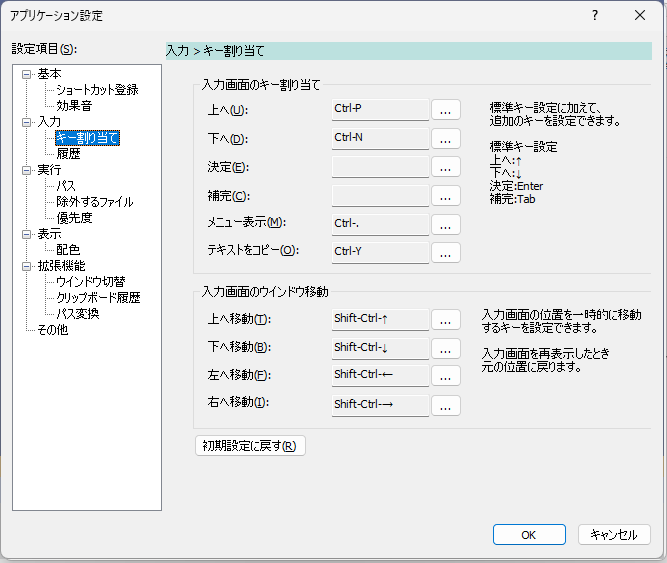
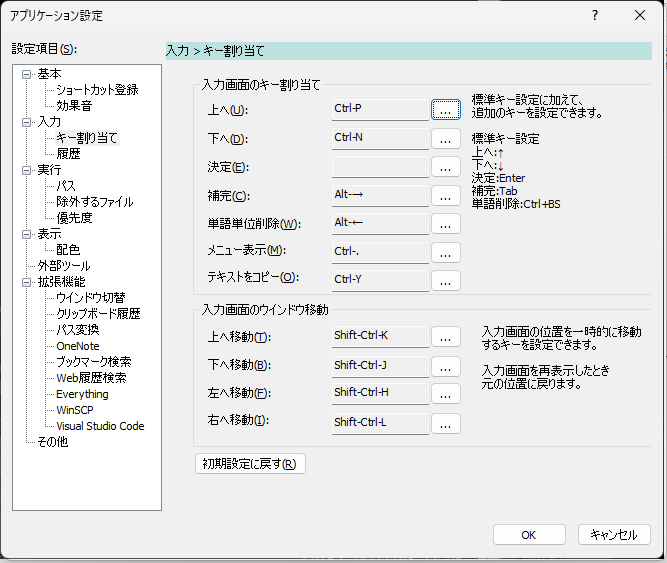
feat : #208 単語削除キーをカスタマイズできるようにする

diff --git a/src/soyokaze/settingwindow/InputWindowKeySettingPage.cpp b/src/soyokaze/settingwindow/InputWindowKeySettingPage.cpp
@@ -29,6 +29,7 @@ protected:
 	afx_msg void OnButtonHotKeySelectDown();
 	afx_msg void OnButtonHotKeyEnter();
 	afx_msg void OnButtonHotKeyCompl();
+	afx_msg void OnButtonHotKeyDeleteWord();
 	afx_msg void OnButtonHotKeyContextMenu();
 	afx_msg void OnButtonHotKeyCopy();
 	afx_msg void OnButtonHotKeyMoveUp();
@@ -50,6 +51,9 @@ public:
 	// 補完
 	CString mHotKeyCompl;
 	HOTKEY_ATTR mHotKeyAttrCompl;
+	// 単語削除
+	CString mHotKeyDeleteWord;
+	HOTKEY_ATTR mHotKeyAttrDeleteWord;
 	// コンテキストメニュー表示
 	CString mHotKeyContextMenu;
 	HOTKEY_ATTR mHotKeyAttrContextMenu;
@@ -104,6 +108,9 @@ void InputWindowKeySettingPage::OnOK()
 	settingsPtr->Set(_T("MainWindowKey:Compl-Modifiers"), (int)mHotKeyAttrCompl.GetModifiers());
 	settingsPtr->Set(_T("MainWindowKey:Compl-VirtualKeyCode"), (int)mHotKeyAttrCompl.GetVKCode());
 
+	settingsPtr->Set(_T("MainWindowKey:DeleteWord-Modifiers"), (int)mHotKeyAttrDeleteWord.GetModifiers());
+	settingsPtr->Set(_T("MainWindowKey:DeleteWord-VirtualKeyCode"), (int)mHotKeyAttrDeleteWord.GetVKCode());
+
 	settingsPtr->Set(_T("MainWindowKey:ContextMenu-Modifiers"), (int)mHotKeyAttrContextMenu.GetModifiers());
 	settingsPtr->Set(_T("MainWindowKey:ContextMenu-VirtualKeyCode"), (int)mHotKeyAttrContextMenu.GetVKCode());
 
@@ -133,6 +140,7 @@ void InputWindowKeySettingPage::DoDataExchange(CDataExchange* pDX)
 	DDX_Text(pDX, IDC_EDIT_HOTKEY_DOWN, mHotKeySelectDown);
 	DDX_Text(pDX, IDC_EDIT_HOTKEY_ENTER, mHotKeyEnter);
 	DDX_Text(pDX, IDC_EDIT_HOTKEY_COMPL, mHotKeyCompl);
+	DDX_Text(pDX, IDC_EDIT_HOTKEY_DELWORD, mHotKeyDeleteWord);
 	DDX_Text(pDX, IDC_EDIT_HOTKEY_CONTEXTMENU, mHotKeyContextMenu);
 	DDX_Text(pDX, IDC_EDIT_HOTKEY_COPY, mHotKeyCopy);
 	DDX_Text(pDX, IDC_EDIT_HOTKEY_MOVE_UP, mHotKeyMoveUp);
@@ -146,6 +154,7 @@ BEGIN_MESSAGE_MAP(InputWindowKeySettingPage, CDialog)
 	ON_COMMAND(IDC_BUTTON_HOTKEY_DOWN, OnButtonHotKeySelectDown)
 	ON_COMMAND(IDC_BUTTON_HOTKEY_ENTER, OnButtonHotKeyEnter)
 	ON_COMMAND(IDC_BUTTON_HOTKEY_COMPL, OnButtonHotKeyCompl)
+	ON_COMMAND(IDC_BUTTON_HOTKEY_DELWORD, OnButtonHotKeyDeleteWord)
 	ON_COMMAND(IDC_BUTTON_HOTKEY_CONTEXTMENU, OnButtonHotKeyContextMenu)
 	ON_COMMAND(IDC_BUTTON_HOTKEY_COPY, OnButtonHotKeyCopy)
 	ON_COMMAND(IDC_BUTTON_HOTKEY_MOVE_UP, OnButtonHotKeyMoveUp)
@@ -172,6 +181,7 @@ bool InputWindowKeySettingPage::UpdateStatus()
 	mHotKeySelectDown = mHotKeyAttrSelectDown.ToString();
 	mHotKeyEnter = mHotKeyAttrEnter.ToString();
 	mHotKeyCompl = mHotKeyAttrCompl.ToString();
+	mHotKeyDeleteWord = mHotKeyAttrDeleteWord.ToString();
 	mHotKeyContextMenu = mHotKeyAttrContextMenu.ToString();
 	mHotKeyCopy = mHotKeyAttrCopy.ToString();
 	mHotKeyMoveUp = mHotKeyAttrMoveUp.ToString();
@@ -200,6 +210,10 @@ void InputWindowKeySettingPage::OnEnterSettings(Settings* settingsPtr)
 	mHotKeyAttrCompl = HOTKEY_ATTR(settingsPtr->Get(_T("MainWindowKey:Compl-Modifiers"), 0),
 	                               settingsPtr->Get(_T("MainWindowKey:Compl-VirtualKeyCode"), -1));
 	mHotKeyCompl = mHotKeyAttrCompl.ToString();
+
+	mHotKeyAttrDeleteWord = HOTKEY_ATTR(settingsPtr->Get(_T("MainWindowKey:DeleteWord-Modifiers"), 0),
+	                                    settingsPtr->Get(_T("MainWindowKey:DeleteWord-VirtualKeyCode"), -1));
+	mHotKeyDeleteWord = mHotKeyAttrDeleteWord.ToString();
 
 	mHotKeyAttrContextMenu = HOTKEY_ATTR(settingsPtr->Get(_T("MainWindowKey:ContextMenu-Modifiers"), 0),
 	                                     settingsPtr->Get(_T("MainWindowKey:ContextMenu-VirtualKeyCode"), -1));
@@ -289,6 +303,23 @@ void InputWindowKeySettingPage::OnButtonHotKeyCompl()
 	UpdateStatus();
 	UpdateData(FALSE);
 }
+
+void InputWindowKeySettingPage::OnButtonHotKeyDeleteWord()
+{
+	UpdateData();
+
+	HotKeyDialog dlg(mHotKeyAttrDeleteWord, this);
+	dlg.SetTargetName(_T("単語単位削除"));
+	if (dlg.DoModal() != IDOK) {
+		return ;
+	}
+
+	dlg.GetAttribute(mHotKeyAttrDeleteWord);
+
+	UpdateStatus();
+	UpdateData(FALSE);
+}
+
 
 void InputWindowKeySettingPage::OnButtonHotKeyContextMenu()
 {
@@ -393,6 +424,7 @@ void InputWindowKeySettingPage::OnButtonReset()
 	mHotKeyAttrSelectDown = HOTKEY_ATTR();
 	mHotKeyAttrEnter = HOTKEY_ATTR();
 	mHotKeyAttrCompl = HOTKEY_ATTR();
+	mHotKeyAttrDeleteWord = HOTKEY_ATTR();
 	mHotKeyAttrContextMenu = HOTKEY_ATTR();
 	mHotKeyAttrCopy = HOTKEY_ATTR();
 	mHotKeyAttrMoveUp = HOTKEY_ATTR();

diff --git a/src/soyokaze/mainwindow/LauncherMainWindow.cpp b/src/soyokaze/mainwindow/LauncherMainWindow.cpp
@@ -247,6 +247,7 @@ BEGIN_MESSAGE_MAP(LauncherMainWindow, CDialogEx)
 	ON_MESSAGE(LauncherMainWindowMessageID::POPUPMESSAGE, OnUserMessagePopupMessage)
 	ON_MESSAGE(LauncherMainWindowMessageID::EXPANDMACRO, OnUserMessageExpandMacro)
 	ON_MESSAGE(LauncherMainWindowMessageID::RELEASEMACROSTR, OnUserMessageReleaseMacroStr)
+	ON_MESSAGE(LauncherMainWindowMessageID::DELETEWORD, OnUserMessageDeleteWord)
 	ON_MESSAGE(WM_APP+255, OnUserMessageGuideClicked)
 	ON_WM_CONTEXTMENU()
 	ON_WM_ENDSESSION()
@@ -628,6 +629,29 @@ LRESULT LauncherMainWindow::OnUserMessageReleaseMacroStr(WPARAM wParam, LPARAM l
 
 	wchar_t* p = (wchar_t*)lParam;
 	delete [] p;
+
+	return 0;
+}
+
+// 単語単位削除
+LRESULT LauncherMainWindow::OnUserMessageDeleteWord(WPARAM wParam, LPARAM lParam)
+{
+	UNREFERENCED_PARAMETER(wParam);
+	UNREFERENCED_PARAMETER(lParam);
+
+	// 音を鳴らす
+	AppSound::Get()->PlayInputSound();
+
+	in->mInput.RemoveLastWord();
+	in->mLastInputStr = in->mInput.GetKeyword();
+
+	// 検索リクエスト
+	QueryAsync();
+
+	// キャレット位置も更新する
+	in->mKeywordEdit.SetCaretToEnd();
+
+	UpdateData(FALSE);
 
 	return 0;
 }
@@ -1231,8 +1255,8 @@ void LauncherMainWindow::OnEditCommandChanged()
 
 	// キー入力でCtrl-Backspaceを入力したとき、不可視文字(0x7E→Backspace)が入力される
 	// (Editコントロールの通常の挙動)
-	// このアプリはCtrl-Backspaceで入力文字列を全クリアするが、一方で、上記挙動により
-	// 入力文字列をクリアした後、0x7Eが挿入されるという謎挙動になるので、ここで0x7Fを明示的に消している
+	// このアプリはCtrl-Backspaceで入力文字列を単語単位削除をするが、一方で、上記挙動により
+	// 単語単位削除した後、0x7Eが挿入されるという謎挙動になるので、ここで0x7Fを明示的に消している
 	if (isReplaced) {
 
 		// FIXME: 0x7Fが含まれていたらCtrl-Backspace入力とみなす、という、ここの処理は変なので直したい

diff --git a/src/soyokaze/mainwindow/MainWindowHotKey.cpp b/src/soyokaze/mainwindow/MainWindowHotKey.cpp
@@ -59,6 +59,18 @@ public:
 	}
 };
 
+class MainWindowHotKey::DeleteWordHandler : public launcherapp::core::CommandHotKeyHandler
+{
+public:
+	virtual ~DeleteWordHandler() {}
+	CString GetDisplayName() override { return _T("__mainwindow_deleteword"); }
+	bool Invoke() override {
+		auto mainWnd = launcherapp::mainwindow::controller::MainWindowController::GetInstance();
+		mainWnd->DeleteWord();
+		return true;
+	}
+};
+
 class MainWindowHotKey::ContextMenuHandler : public launcherapp::core::CommandHotKeyHandler
 {
 public:
@@ -194,6 +206,12 @@ bool MainWindowHotKey::Register()
 	                            settingsPtr->Get(_T("MainWindowKey:Compl-VirtualKeyCode"), -1));
 	if (hotKeyAttrCompl.GetVKCode() != -1) {
 		manager->Register(this, new ComplHandler, hotKeyAttrCompl);
+	}
+
+	auto hotKeyAttrDeleteWord = HotKeyAttr(settingsPtr->Get(_T("MainWindowKey:DeleteWord-Modifiers"), 0),
+	                                       settingsPtr->Get(_T("MainWindowKey:DeleteWord-VirtualKeyCode"), -1));
+	if (hotKeyAttrDeleteWord.GetVKCode() != -1) {
+		manager->Register(this, new DeleteWordHandler, hotKeyAttrDeleteWord);
 	}
 
 	auto hotKeyAttrContextMenu = HotKeyAttr(settingsPtr->Get(_T("MainWindowKey:ContextMenu-Modifiers"), 0),

diff --git a/src/soyokaze/resource.h b/src/soyokaze/resource.h
@@ -238,6 +238,7 @@
 #define IDC_EDIT_HOTKEY_MOVE_DOWN       1028
 #define IDC_STATIC_PARAM0               1029
 #define IDC_COMBO_AFTERCOMMAND          1029
+#define IDC_EDIT_HOTKEY_DELWORD         1029
 #define IDC_STATIC_NAME                 1030
 #define IDC_BUTTON_RESOLVESHORTCUT2     1030
 #define IDC_COMBO_AFTERTYPE             1030
@@ -299,6 +300,7 @@
 #define IDC_BUTTON_HOTKEY_MOVE_RIGHT    1062
 #define IDC_CHECK_SHOWOPTIONBUTTON      1062
 #define IDC_CHECK_SHOWGUIDE             1063
+#define IDC_BUTTON_HOTKEY_DELWORD       1063
 #define IDC_CHECK_SHOWTOGGLE            1064
 #define IDC_CHECK_SHOWGUIDE2            1064
 #define IDC_CHECK_DRAWICON              1064

diff --git a/src/soyokaze/mainwindow/controller/LauncherMainWindowController.h b/src/soyokaze/mainwindow/controller/LauncherMainWindowController.h
@@ -23,6 +23,7 @@ enum LauncherMainWindowMessageID  {
 	POPUPMESSAGE =WM_APP + 21, 
 	EXPANDMACRO =WM_APP + 22, 
 	RELEASEMACROSTR =WM_APP + 23, 
+	DELETEWORD = WM_APP + 24,
 };
 	
 class LauncherMainWindowController : public MainWindowControllerIF
@@ -63,6 +64,8 @@ public:
 	bool MoveTemporary(int vk) override;
 	// メインウインドウの表示を抑制する
 	void BlockWindowDisplay(bool isBlock) override;
+	// 単語単位の削除
+	void DeleteWord() override;
 
 };
 

diff --git a/src/soyokaze/mainwindow/controller/LauncherMainWindowController.cpp b/src/soyokaze/mainwindow/controller/LauncherMainWindowController.cpp
@@ -127,6 +127,12 @@ void LauncherMainWindowController::BlockWindowDisplay(bool isBlock)
 	::SendMessage(sharedWnd.GetHwnd(), BLOCKWINDOWDIAPLAY, (WPARAM)isBlock ? 1 : 0, 0);
 }
 
+// 単語単位の削除
+void LauncherMainWindowController::DeleteWord()
+{
+	SharedHwnd sharedWnd;
+	::SendMessage(sharedWnd.GetHwnd(), DELETEWORD, 0, 0);
+}
 
 }}} // end of namespace launcherapp::mainwindow::controller
 

diff --git a/src/soyokaze/mainwindow/LauncherMainWindow.h b/src/soyokaze/mainwindow/LauncherMainWindow.h
@@ -139,6 +139,7 @@ protected:
 	LRESULT OnUserMessageExpandMacro(WPARAM wParam, LPARAM lParam);
 	LRESULT OnUserMessageReleaseMacroStr(WPARAM wParam, LPARAM lParam);
 	LRESULT OnUserMessageGuideClicked(WPARAM wParam, LPARAM lParam);
+	LRESULT OnUserMessageDeleteWord(WPARAM wParam, LPARAM lParam);
 
 	afx_msg void OnButtonOptionClicked();
 

diff --git a/src/soyokaze/mainwindow/MainWindowHotKey.h b/src/soyokaze/mainwindow/MainWindowHotKey.h
@@ -11,6 +11,7 @@ class MainWindowHotKey : public AppPreferenceListenerIF
 	class SelectDownHandler;
 	class EnterHandler;
 	class ComplHandler;
+	class DeleteWordHandler;
 	class ContextMenuHandler;
 	class CopyHandler;
 	class MoveUpHandler;

diff --git a/src/soyokaze/mainwindow/controller/MainWindowControllerIF.h b/src/soyokaze/mainwindow/controller/MainWindowControllerIF.h
@@ -41,6 +41,8 @@ public:
 	virtual bool MoveTemporary(int vk) = 0;
 	// メインウインドウの表示を抑制する
 	virtual void BlockWindowDisplay(bool isBlock) = 0;
+	// 単語単位の削除
+	virtual void DeleteWord() = 0;
 };
 
 

diff --git a/doc/manuals/source/window/app-settings.md b/doc/manuals/source/window/app-settings.md
@@ -149,6 +149,8 @@ mp3ファイルのみ指定可能(他の音声ファイルには非対応)
     - 入力画面での入力内容を確定させるキーを割り当てる
   - `補完`
     - 入力画面での入力内容を補完するキーを割り当てる
+  - `単語単位削除`
+    - 入力画面で単語単位の削除をするキーを割り当てる
   - `メニュー表示`
     - 選択している候補のコンテキストメニューを表示するキーを割り当てる
   - `テキストをコピー`

diff --git a/CHANGELOG.md b/CHANGELOG.md
@@ -2,6 +2,10 @@
 
 ## [Unreleased]
 
+### Added
+
+- #208 単語削除するキーを設定できるようにする
+
 ### Changed
 
 - #212 ExplorePathCommandを実行したときに履歴登録する形に戻す、かつ、フルパスを履歴として表示する
